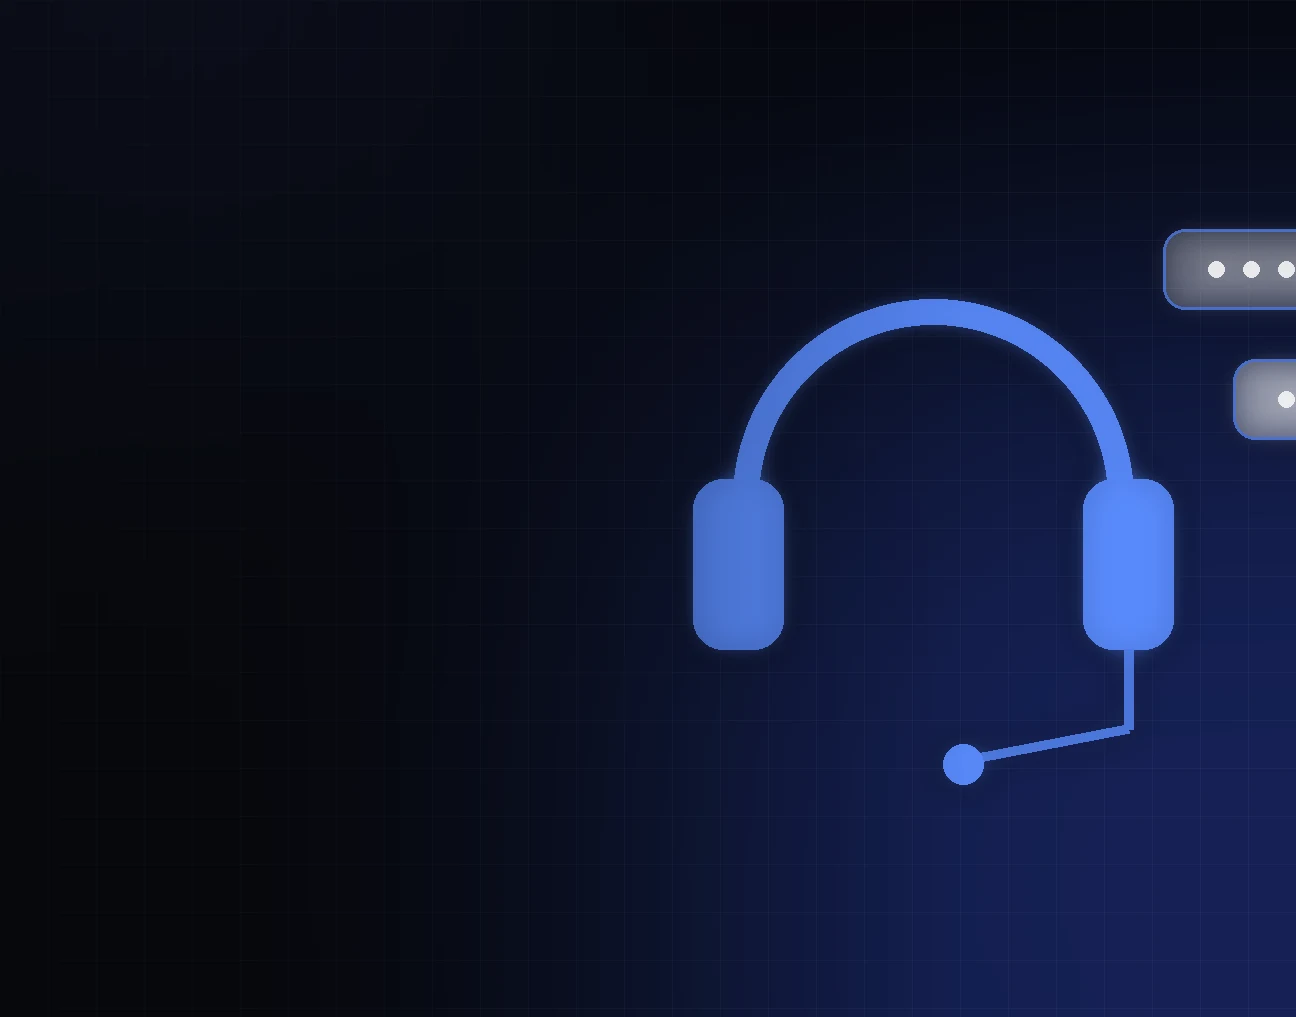
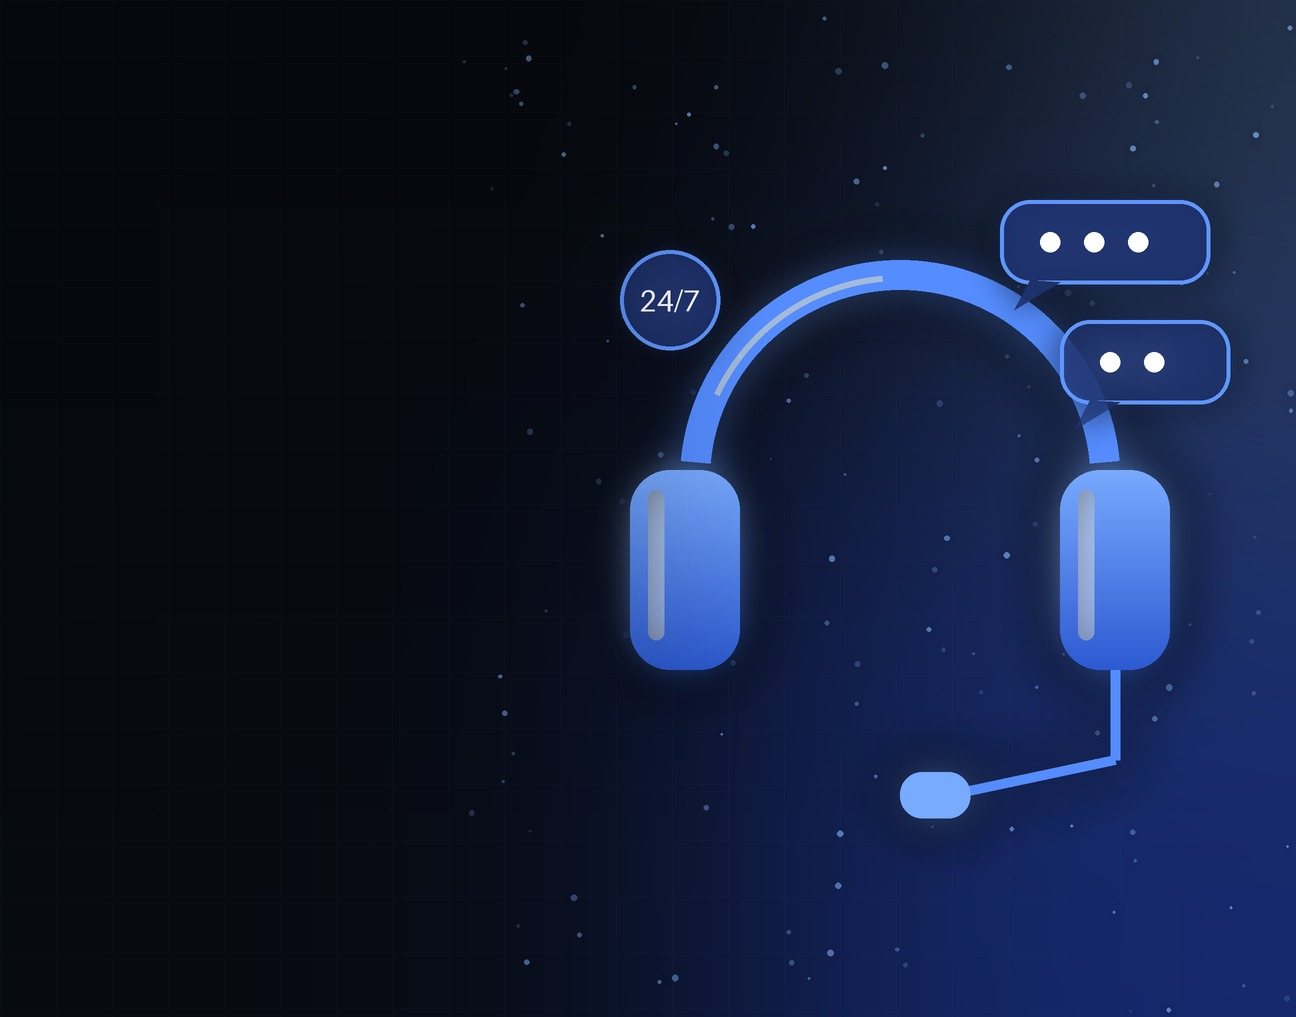
Services page: enhanced background images for all service cards

diff --git a/app/(main)/services/page.js b/app/(main)/services/page.js
@@ -148,10 +148,10 @@ export async function generateMetadata() {
 const SERVICE_BG_IMAGES = {
   seo: "/services-bg-image/seo.webp",
   smm: "/services-bg-image/social-media-marketing.webp",
-  paidAds: "/services-bg-image/google-ads-paid-marketing.jpg",
+  paidAds: "/services-bg-image/google-ads-paid-marketing.webp",
   webDev: "/services-bg-image/website-development.webp",
   bpo: "/services-bg-image/bpo-customer-support.webp",
-  ai: "/services-bg-image/ai-solutions.webp",
+  ai: "/services-bg-image/ai-solution.webp",
   automation: "/services-bg-image/marketing-automation.webp",
   consultancy: "/services-bg-image/business-consultancy.webp",
 };
